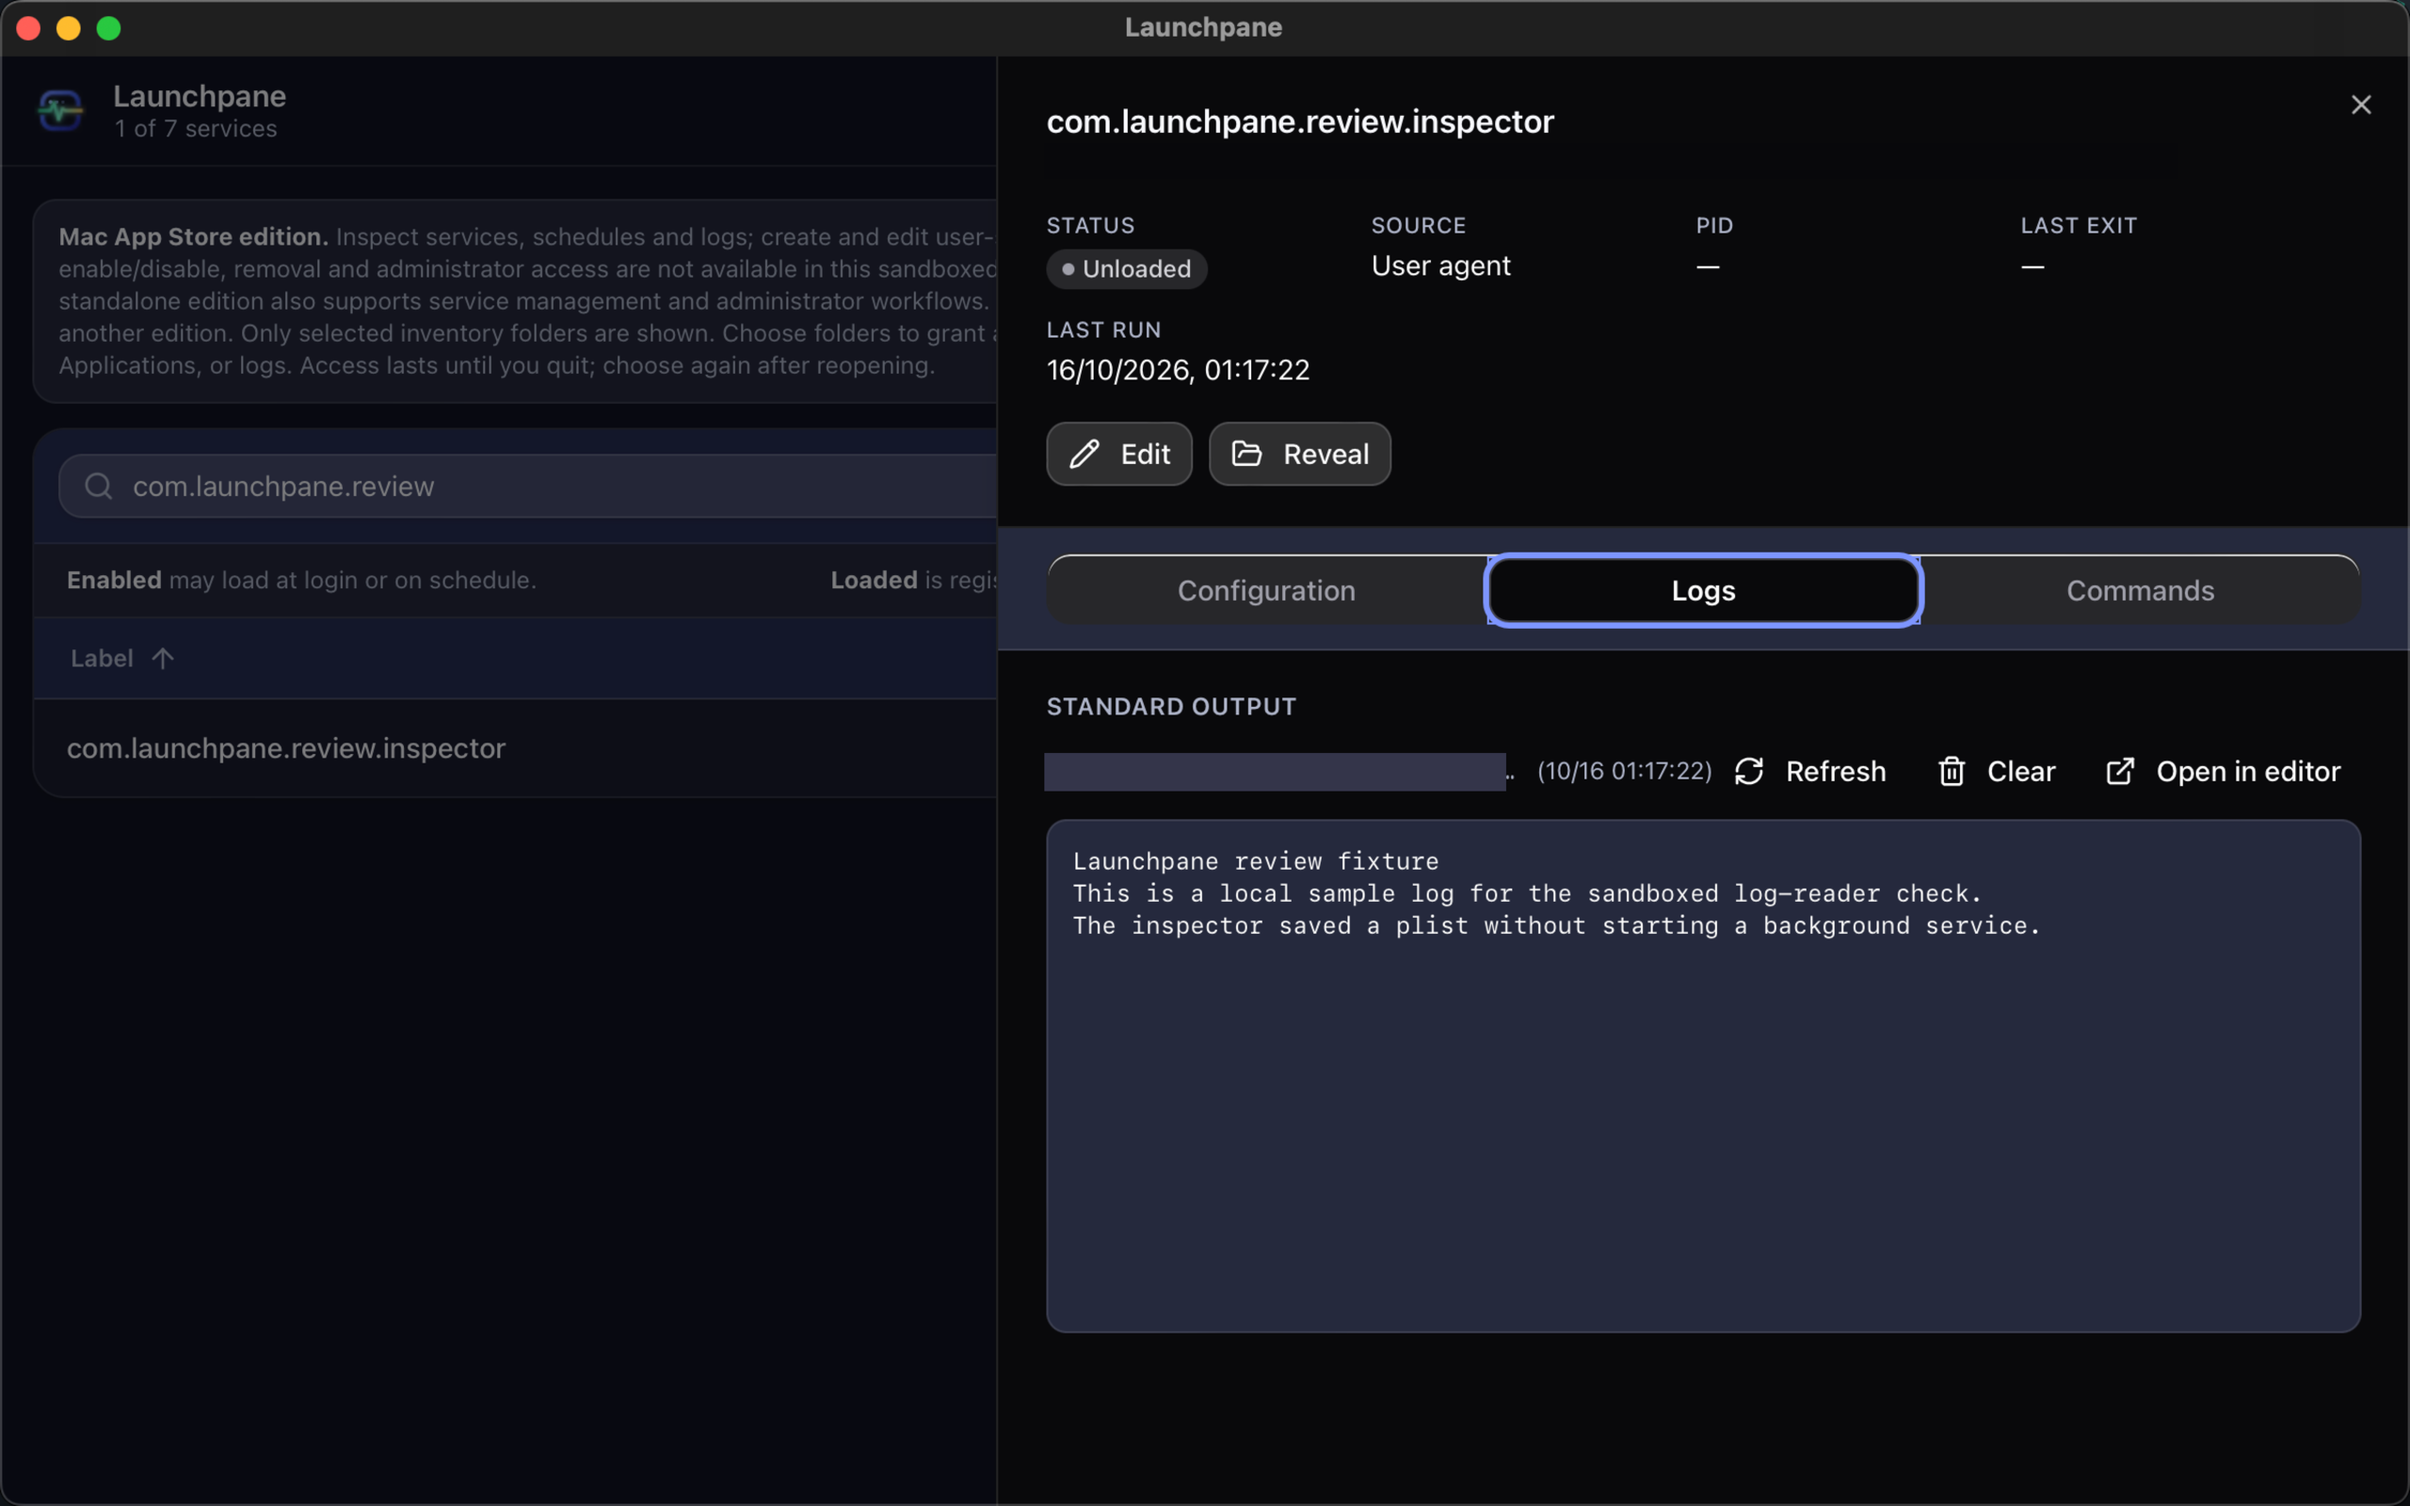
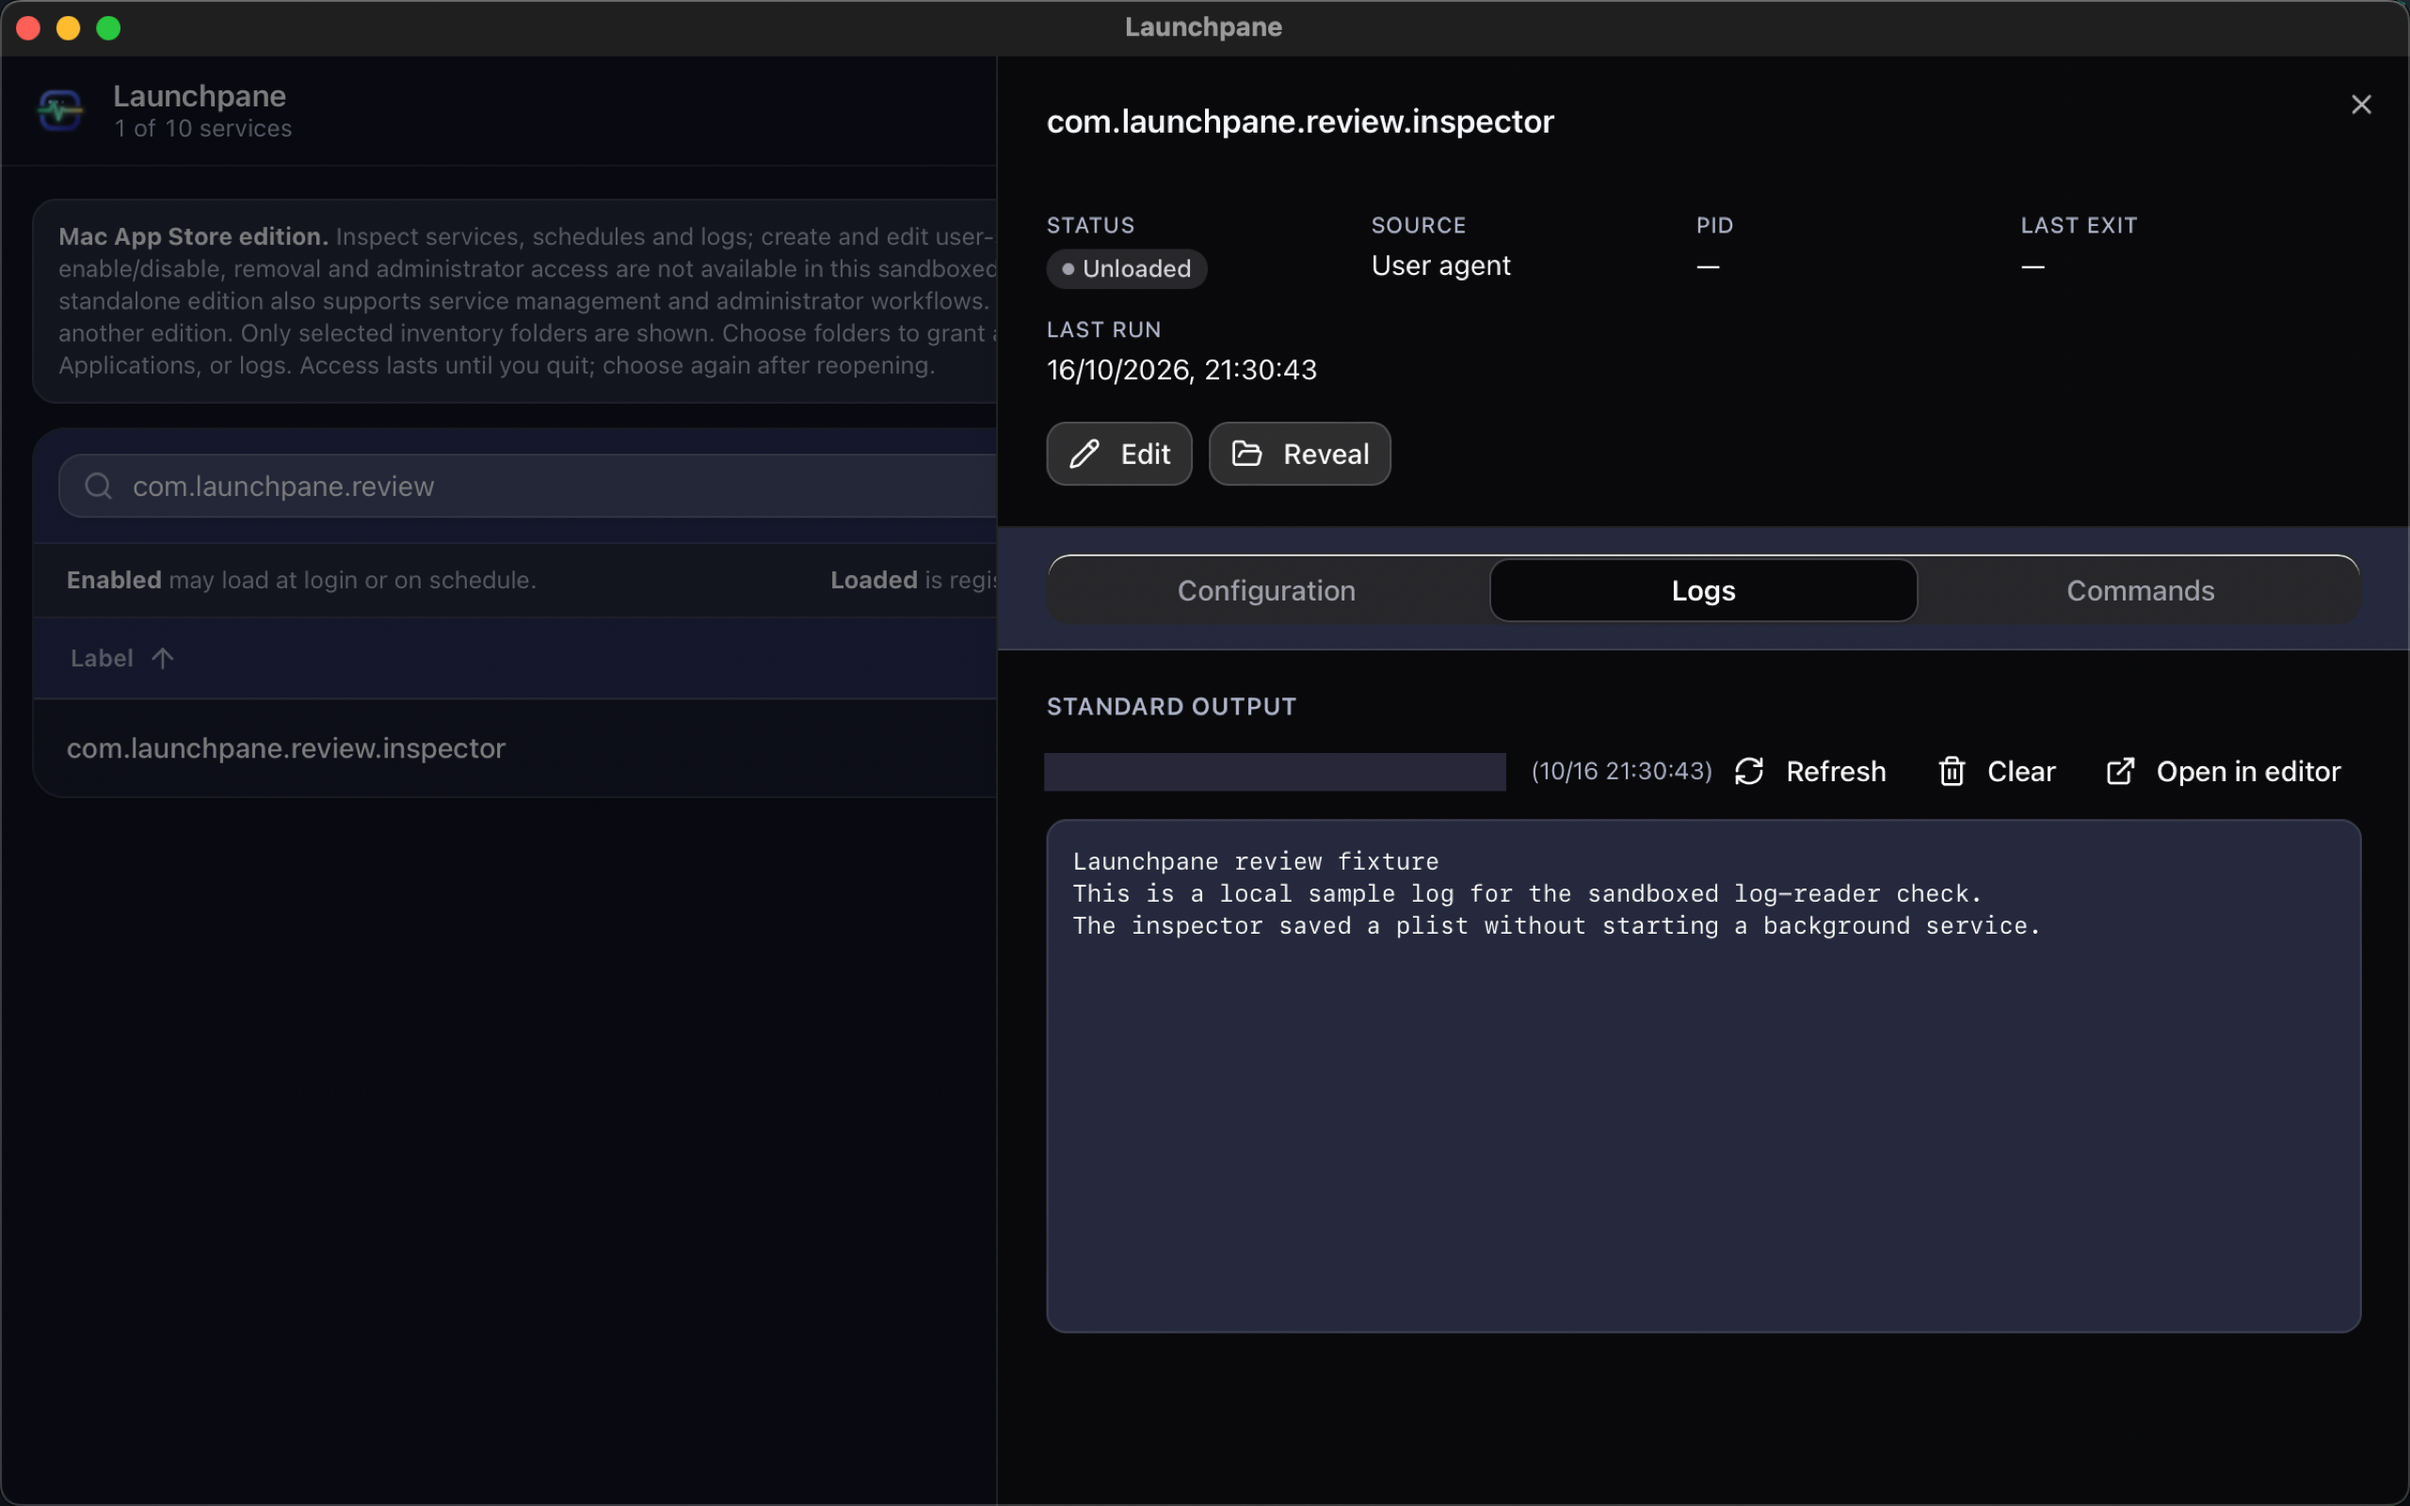
Prepare 1.3.3 release with native Store recapture (#13)
Bump to 1.3.3 to ship the error-formatting fix in both channels.
Recapture all four Store screenshots from a local 1.3.3 sandbox preview
and update provenance, release notes and review documentation.

Copilot-Session: 71e7dd6d-7310-4998-860c-1e8f5c972cbc

diff --git a/appstore/review-recording.md b/appstore/review-recording.md
@@ -1,6 +1,19 @@
 # App Review recording and QA checklist
 
-## Current edition: October 15, 2026
+## Current edition: October 16, 2026
+
+Candidate 1.3.3 fixes folder-access and inventory error formatting seen in the
+1.3.2 TestFlight build: non-launchctl failures no longer carry a
+"launchctl error" prefix, and the error card and toast wrap long details.
+All four native captures were refreshed from local sandbox preview
+`1.3.3 (202610162201)` after actual folder selection, disposable plist creation
+through the New Agent form, editing a standard-output path, selected sample-log
+reading and Spotify login-helper search. The plist was verified not registered
+with launchd and was removed afterward. These remain local preview evidence,
+not exact production-build QA. Production upload status is tracked in App Store
+Connect; no App Review submission is claimed here.
+
+### Previous candidate: 1.3.2
 
 Production candidate `1.3.2 (202610160102)` is Apple-processed `VALID`, attached
 to the manual-release version, and assigned to `Launchpane Internal QA`.

diff --git a/appstore/README.md b/appstore/README.md
@@ -1,6 +1,6 @@
 # Mac App Store release
 
-The 1.3.2 Store candidate is a service inspector and personal plist editor.
+The 1.3.3 Store candidate is a service inspector and personal plist editor.
 It removes all lifecycle, enable/disable, removal and administrator operations;
 the standalone edition retains them. The [edition comparison](../docs/app-store-actions.md)
 is authoritative. A sandboxed filesystem grant is not launchd-control permission.
